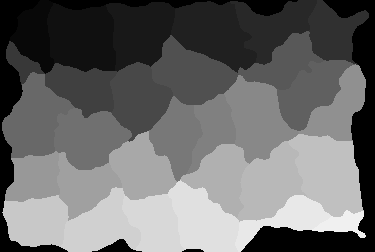
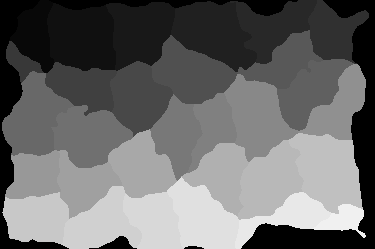
프레임 막대 안쪽 여백 · 지도 다시 굽기(375×249, 막대 밑으로 안 들어감) · 막대 옆 회색 눈금 끔 (사용자 10/23)
막대 자리는 UI/FrameBars 한 곳에서 정한다. WorldSidePanel에는 목숨 표시(패배시 -1 · 위기 하트) 줄도 같이 들어감.

diff --git a/Assets/Scripts/UI/WorldSidePanel.cs b/Assets/Scripts/UI/WorldSidePanel.cs
@@ -9,7 +9,7 @@ namespace GnorpWar
     //   지형 : [아이콘] 이름 / (지역 특수 업그레이드가 놓인 땅이면) [아이콘] 이름 + 효과 글 / 패배시 · [하트] -N
     // 고른 땅이 없으면 같은 배치로 나(구분선 아래는 안내 글만), 내 땅을 고르면 나 + 그 땅의 지형.
     // 내가 가진 업그레이드는 여기가 아니라 위 줄의 「땅 n/30」 오른쪽에 늘어놓는다(ShowStatus — 넘치면 좌우로 끌어서 민다).
-    // 지형 · 가진 업그레이드의 효과는 글로 쓰지 않는다 — 아이콘에 마우스를 올리면 뜬다(UI/UpgradeIcon). 고른 땅의 지역 특수 업그레이드만 효과를 글로도 쓴다. 행복도는 하트 아이콘이다.
+    // 지형 · 가진 업그레이드의 효과는 글로 쓰지 않는다 — 아이콘에 마우스를 올리면 뜬다(UI/UpgradeIcon). 고른 땅의 지역 특수 업그레이드만 효과를 글로도 쓴다. 목숨은 하트 아이콘이다.
     // 오른쪽 기둥에는 그 영주의 탑이 선다 — 상점 탑과 같은 층 그림(SlotView)이고 층에 마우스를 올리면 기물 설명 창이 뜬다. 내 땅을 고르거나 아무 땅도 안 고르면 내 탑.
     // 무엇을 고를지 · 명령 버튼은 WorldManager가 정한다
     public class WorldSidePanel : MonoBehaviour
@@ -19,7 +19,7 @@ namespace GnorpWar
         private const float LineGap = 6f;
         // 초상화 — 원본 1px이 화면 몇 px인지(몸 8×8 → 64px, 전의 패널 아이콘의 2배) · 패널 위 끝에서 그림 위 끝까지(px)
         private const int PortraitScale = 8;
-        private const float PortraitTop = 28f;
+        private const float PortraitTop = FrameBars.InfoLeft + FrameBars.Pad;
         // 초상화가 차지하는 높이(원본 px, 몸 한가운데에서) — 깃발 든 그림의 위 · 아래 끝
         private const float FigureUp = 7f, FigureDown = -4f;
         // 아이콘 줄(px) — 아이콘 한 변 · 아이콘과 그 옆 글 사이 · 줄 높이 · 「지형 :」 머리말의 폭
@@ -47,7 +47,7 @@ namespace GnorpWar
         [Tooltip("영주 그림 — 유닛 몸 그림(파란 자리를 그 영주의 색으로 칠한다)과 드는 깃발(흰 그림). 지도의 영주 그림과 같은 것")]
         [SerializeField] private Sprite _lordSprite;
         [SerializeField] private Sprite _lordFlag;
-        [Tooltip("행복도 아이콘(하트) — 위 줄과 「패배시」 줄")]
+        [Tooltip("목숨 아이콘(하트) — 위 줄과 「패배시」 줄")]
         [SerializeField] private Sprite _heartIcon;
         [Tooltip("위 줄 아이콘 — 턴(해) · 골드(동전, 숫자와 같은 노랑으로 칠한다) · 땅(왕관 — 지도의 내 땅 표시와 같은 그림). 글 대신 아이콘 + 숫자")]
         [SerializeField] private Sprite _turnIcon;
@@ -88,7 +88,7 @@ namespace GnorpWar
         private UpgradeRow _mine;
         private RectTransform _mineView;
 
-        // 위 줄 — [해] N · [동전] G · 행복도 하트(UI/HeartRow) · [왕관] n/30 · 내가 가진 업그레이드 아이콘 줄(UI/UpgradeRow). 낱말 없이 아이콘 + 숫자(10/21 He is Coming풍).
+        // 위 줄 — [해] N · [동전] G · 목숨 하트(UI/HeartRow — 국가 위기면 빨갛게 두근거리는 빈 하트 하나) · [왕관] n/30 · 내가 가진 업그레이드 아이콘 줄(UI/UpgradeRow). 낱말 없이 아이콘 + 숫자(10/21 He is Coming풍).
         // bar = 그 줄의 글(왼쪽 가운데 정렬) — 글은 비우고 숫자 글의 틀로만 쓴다. 업그레이드 줄은 bar의 오른쪽 끝까지가 창이고, 넘치면 좌우로 끌어서 민다(스크롤바 없음)
         public void ShowStatus(Text bar, int turn)
         {
@@ -131,7 +131,7 @@ namespace GnorpWar
         }
 
         // 탑 기둥의 가로 자리(1층 틀 칸의 가운데)
-        public float TowerX => ((RectTransform)_slotTemplate.transform).anchoredPosition.x;
+        public float TowerX => FrameBars.TowerCenter;
 
         // selected = 고른 땅(없으면 WorldMapView.None). land = 고른 땅 · 영주 · 탑을 보여 주나 — 끄면 나만(그 아래 자리는 WorldManager의 알림이 쓴다).
         // shop = 상점 팝업이 보이나 — 그동안에는 나만 보여 주고 탑 기둥은 상점의 내 탑에 내준다
@@ -141,8 +141,7 @@ namespace GnorpWar
             WorldState state = world.State;
             if (_owned == null)
                 Build();
-            // 글 기둥의 한가운데 · 왼쪽 끝
-            float left = _title.rectTransform.anchoredPosition.x - _title.rectTransform.sizeDelta.x * 0.5f;
+            // 글 기둥의 한가운데
             float center = _title.rectTransform.anchoredPosition.x;
 
             // 상점이 열린 동안에는 고른 땅과 상관없이 나를 보여 준다(사용자 10/12 — 탑 기둥도 내 탑이다). 그 아래는 비운다
@@ -207,8 +206,8 @@ namespace GnorpWar
             }
 
             y -= BlockGap * 0.5f;
-            // 구분선 그림은 글 기둥 폭 그대로의 원본 크기(§5-1) — 그 높이만큼 내려간다
-            _divider.rectTransform.anchoredPosition = new Vector2(left, y);
+            // 구분선 그림은 원본 크기(§5-1)로 기둥 가운데에 — 그 높이만큼 내려간다
+            _divider.rectTransform.anchoredPosition = new Vector2(Mathf.Round(center - _divider.rectTransform.sizeDelta.x * 0.5f), y);
             y -= _divider.rectTransform.sizeDelta.y + BlockGap * 0.5f;
 
             MapDefinition terrain = world.Map.TerrainOf(selected);
@@ -229,7 +228,8 @@ namespace GnorpWar
             {
                 y -= BlockGap * 0.5f;
                 y = Place(_loseTitle.rectTransform, center, y);
-                _loseLine.Name.text = BuildingTooltip.Highlight($"-{state.Rules.LossDrop(state.LandsOf(lord))}");
+                // 지면 목숨 −1 — 국가 위기(목숨 0)면 지는 순간 게임 오버
+                _loseLine.Name.text = RunState.InCrisis ? "게임 오버" : BuildingTooltip.Highlight("-1");
                 y = Line(_loseLine, center, y);
                 // 상태 줄(효과가 아닌 것)은 회색, 맨 아래 — 「침략」이 왜 꺼졌는지
                 if (!invadable)
@@ -244,6 +244,14 @@ namespace GnorpWar
         // 코드가 만드는 줄들 — 글은 씬의 닉네임 글(도트 폰트)을 본떠 같은 폰트 · 크기로
         private void Build()
         {
+            // 떠 있는 설명 창도 화면 테두리 막대 안쪽에만(UI/BuildingTooltip.Framed) — 이 패널의 부모 = 화면 판
+            BuildingTooltip.Framed = (RectTransform)transform.parent;
+            // 글 기둥 = 정보 기둥 안쪽에서 양옆 막대와 Pad씩 띄운 폭(UI/FrameBars). 아래에서 복제하는 글도 이 자리 · 폭을 따른다
+            foreach (Text text in new[] { _title, _nation, _landBody })
+            {
+                text.rectTransform.anchoredPosition = new Vector2(FrameBars.InfoCenter, text.rectTransform.anchoredPosition.y);
+                text.rectTransform.sizeDelta = new Vector2(FrameBars.InfoWidth - FrameBars.Pad * 2f, text.rectTransform.sizeDelta.y);
+            }
             _title.alignment = TextAnchor.MiddleCenter;
             _nation.alignment = _landBody.alignment = TextAnchor.UpperCenter;
             _portrait = NewRoot("Portrait");
@@ -257,12 +265,9 @@ namespace GnorpWar
             // 정보 기둥과 탑 기둥 사이의 세로 구분선(사용자 10/12) — 패널 위에서 바닥까지. 가로 구분선과 같은 굵기 · 색
             if (_slotTemplate != null)
             {
-                var slot = (RectTransform)_slotTemplate.transform;
-                float columnRight = _title.rectTransform.anchoredPosition.x + _title.rectTransform.sizeDelta.x * 0.5f;
-                float towerLeft = slot.anchoredPosition.x - slot.rect.width * 0.5f;
                 Image pillar = _pillar = NewImage((RectTransform)transform, "Pillar");
                 Anchor(pillar.rectTransform, new Vector2(0f, 1f));
-                pillar.rectTransform.anchoredPosition = new Vector2(Mathf.Round((columnRight + towerLeft - DividerHeight) * 0.5f), 0f);
+                pillar.rectTransform.anchoredPosition = new Vector2(FrameBars.Pillar, 0f);
                 pillar.rectTransform.sizeDelta = new Vector2(DividerHeight, ((RectTransform)transform).rect.height);
             }
             _terrainLine = NewLine("Terrain", "지형 :", true);
@@ -408,7 +413,9 @@ namespace GnorpWar
             // 층은 처음 그릴 때 만든다 — 런이 시작된 뒤여야 최대 층 수를 안다
             if (_slots == null)
             {
-                _origin = ((RectTransform)_slotTemplate.transform).anchoredPosition;
+                // 1층 = 탑 기둥 가운데, 바닥 막대 위에 선다(UI/FrameBars)
+                var slot = (RectTransform)_slotTemplate.transform;
+                _origin = new Vector2(FrameBars.TowerCenter, -FrameBars.Floor + slot.rect.height * slot.pivot.y);
                 _slots = new SlotView[RunState.MaxFloors];
                 for (int i = 0; i < _slots.Length; i++)
                 {

diff --git a/Assets/Scripts/UI/FrameBars.cs b/Assets/Scripts/UI/FrameBars.cs
@@ -1,0 +1,27 @@
+using UnityEngine;
+
+namespace GnorpWar
+{
+    // 지도 씬 화면 테두리(UI_WorldFrame — 화면 판 Canvas/Screen 1920×1080) 막대의 자리. 화면 판 왼쪽 위 기준 px, 아래로 +. 막대 굵기 6px.
+    // 테두리 그림을 바꾸면 여기만 고친다 — 막대 옆에 자리를 코드로 정하는 UI(왼쪽 패널 · 탑 기둥의 탑 · 국가 고르기의 탑)가 여기서 읽는다.
+    // 여백 규칙(Docs/UI_스타일가이드_초안.md §4): 막대 안쪽 끝 → 글 · 아이콘 · 버튼은 Pad 이상, 큰 판(탑 · 지도 · 판 배경)은 겹치지 않게 맞닿음
+    public static class FrameBars
+    {
+        public const float Bar = 6f;
+        // 막대의 첫 픽셀 — 바깥 막대(화면 가장자리에서) · 탑 기둥 세로선 · 패널|지도 칸막이
+        public const float Outer = 8f;
+        public const float Pillar = 276f;
+        public const float PanelEdge = 409f;
+        // 막대 → 글 · 아이콘 최소 여백
+        public const float Pad = 16f;
+
+        // 정보 기둥(바깥 막대 ~ 탑 기둥 선)의 안쪽 — 왼쪽 끝 · 가운데 · 폭
+        public const float InfoLeft = Outer + Bar;
+        public const float InfoCenter = (InfoLeft + Pillar) * 0.5f;
+        public const float InfoWidth = Pillar - InfoLeft;
+        // 탑 기둥(세로선 ~ 칸막이)의 가운데 — 정수 px로(도트가 반 픽셀에 걸리지 않게)
+        public static float TowerCenter => Mathf.Floor((Pillar + Bar + PanelEdge) * 0.5f);
+        // 바닥 막대의 위 끝(화면 판 높이 1080) — 탑은 여기에 선다
+        public const float Floor = 1080f - Outer - Bar;
+    }
+}

diff --git a/Assets/Scripts/UI/WorldMapView.cs b/Assets/Scripts/UI/WorldMapView.cs
@@ -9,7 +9,7 @@ namespace GnorpWar
     // 남의 땅은 영주 색을 어둡게 채우고, 내 땅만 밝게 채워 굵은 흰 테두리를 두른다(지도에서 가장 먼저 보여야 한다 — 사용자 10/11).
     // 다른 영주와의 국경 · 해안선은 흰 선, 같은 영주의 땅 사이는 옅은 선. 침략할 수 있는 땅에는 내 땅에서 그 땅으로 화살표 하나
     // (국경을 가장 길게 맞댄 내 땅에서, 여덟 방향 도트 도장) — _hatch를 켜면 그 땅에 그 영주 색 빗금도. 고른 땅은 노란 테두리, 가리킨 땅은 조금 밝게.
-    // 판도 · 고른 땅 · 가리킨 땅이 바뀔 때마다 그림을 통째로 다시 칠한다(375×252칸).
+    // 판도 · 고른 땅 · 가리킨 땅이 바뀔 때마다 그림을 통째로 다시 칠한다(375×249칸).
     // 땅마다 지형 아이콘 · 지역 특수 표시 · 내 땅 왕관은 구운 표시 자리(AnchorOf)에 한 번 놓는다.
     // 누름 · 가리킴은 화면 좌표를 칸으로 바꿔 땅 번호를 읽는다 — 무엇을 할지는 WorldManager가 정한다
     [RequireComponent(typeof(RawImage))]

diff --git a/Assets/Scripts/UI/BoardView.cs b/Assets/Scripts/UI/BoardView.cs
@@ -200,6 +200,15 @@ namespace GnorpWar
         public Source Kind => _source;
         // 틀 칸(1층)의 가로 자리 — 탑을 다른 기둥으로 옮겨 세울 때 얼마나 옮길지 잰다(UI/ShopPanel.PlaceTower)
         public float TemplateX => ((RectTransform)_template.transform).anchoredPosition.x;
+        // 틀 칸(1층)의 아래 끝 — 같은 일의 세로 자리
+        public float TemplateBottom
+        {
+            get
+            {
+                var rect = (RectTransform)_template.transform;
+                return rect.anchoredPosition.y - rect.rect.height * rect.pivot.y;
+            }
+        }
         // index칸 그림의 화면 자리(지금 그려진 모습 기준)
         public Vector3 SlotPosition(int index) => _views[index].transform.position;
 

diff --git a/Assets/Editor/WorldMapBaker.cs b/Assets/Editor/WorldMapBaker.cs
@@ -9,7 +9,8 @@ namespace GnorpWar.Editor
     // UnityEngine을 쓰지 않는다 — Unity 밖 검산(시안 생성기 · 규칙 러너)이 같은 코드를 읽는다
     internal class WorldMapBaker
     {
-        public const int Width = 375, Height = 252;
+        // 지도 1칸 = 화면 4px — 높이는 지도 칸(화면 테두리 막대 사이 999px, UI/FrameBars)에 들어가게 249칸(사용자 10/23)
+        public const int Width = 375, Height = 249;
         public const int Sea = -1;
         // 이만큼(칸) 이상 국경을 맞대야 이어진 땅이다 — 짧게 스치는 접점은 길이 아니다
         public const int MinBorder = 6;

diff --git a/Docs/UI_스타일가이드_초안.md b/Docs/UI_스타일가이드_초안.md
@@ -63,6 +63,7 @@
 ## 4. 여백 단위
 
 - **기본 단위 8px** — 모든 여백 · 간격은 8의 배수(8 · 16 · 24 · 32 · 48). 판 안쪽 여백 32, 묶음 사이 48, 줄 사이 8~16.
+- **화면 테두리 막대 안쪽 끝 → 글·아이콘·버튼 16 이상**(위 줄은 칸이 좁아 세로 가운데) · **큰 판(탑·지도·판 배경)은 겹치지 않게 맞닿음**(막대가 그 칸의 테두리). 막대 자리 값의 원본은 `UI/FrameBars`(10/23).
 - 판 가장자리 ~ 화면 가장자리 최소 32.
 - 정렬은 **왼쪽 기준선 하나** — 가운데 정렬은 제목 · 단일 버튼에만.
 
